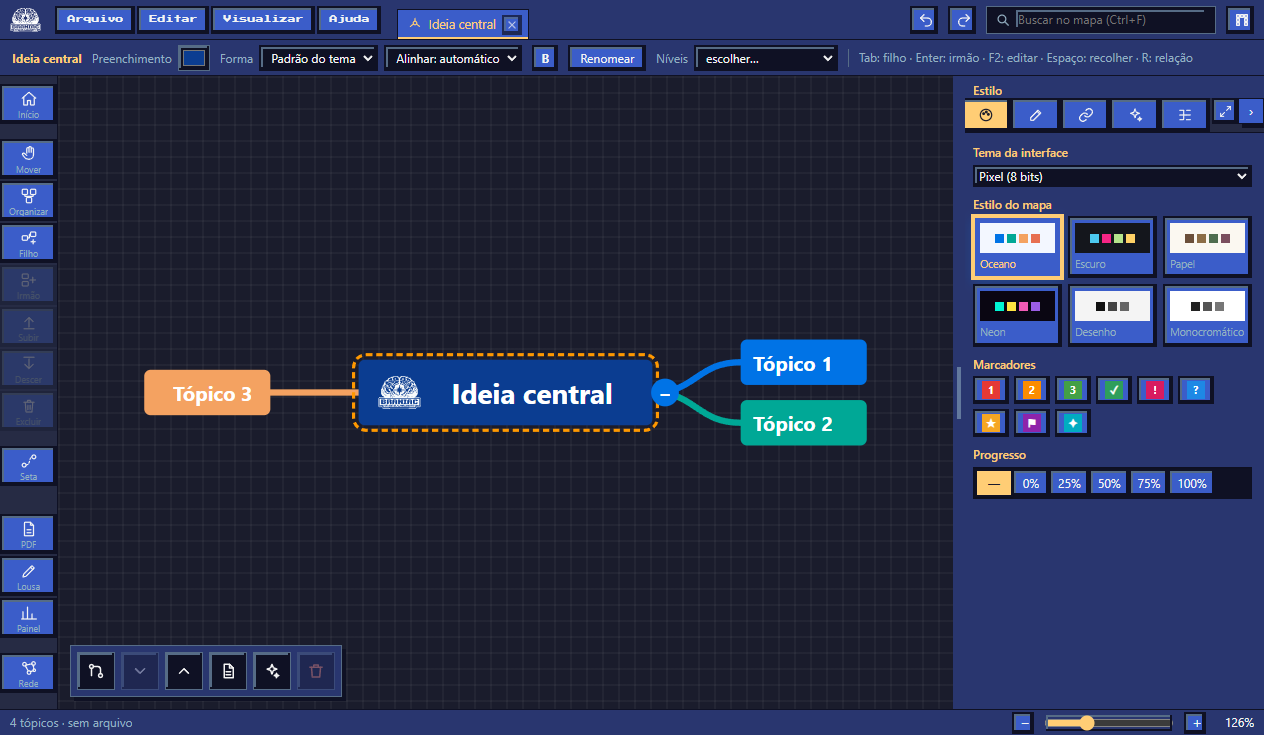
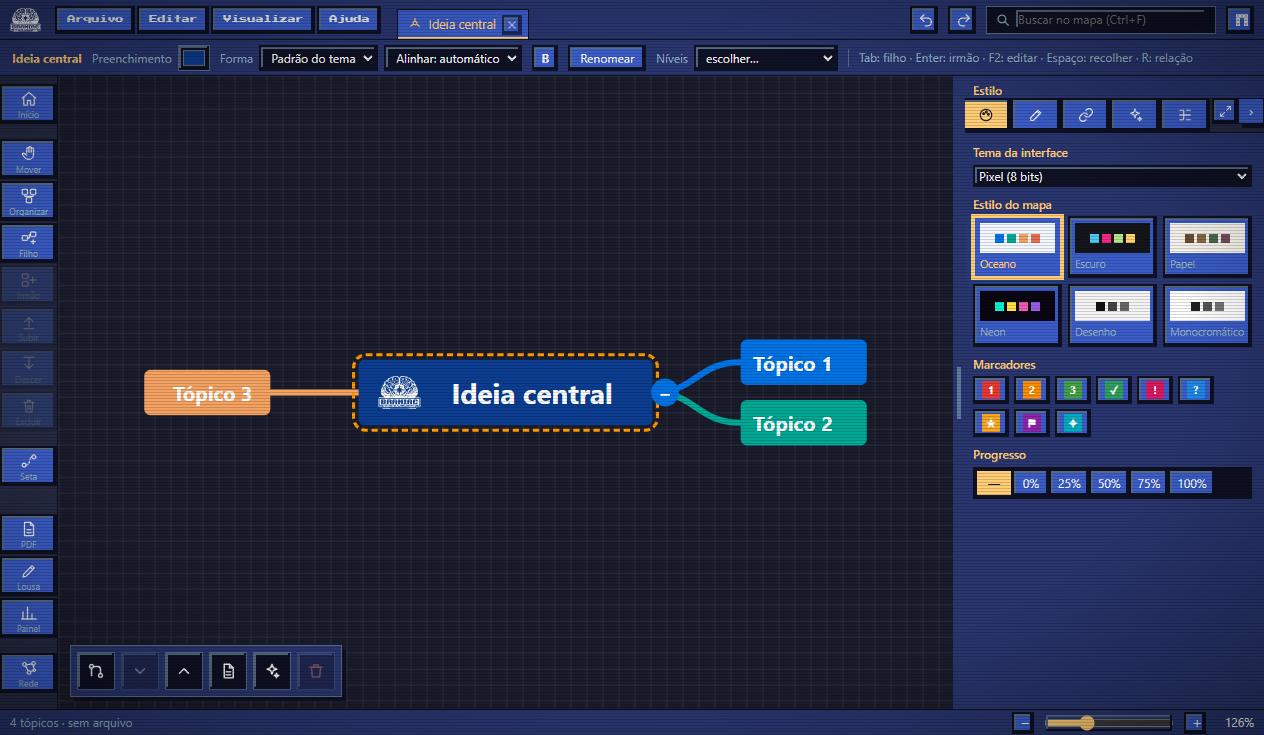
Release 0.7.2: tema Pixel (8 bits), revisão espaçada, logomarca nova
- Versão 0.7.2 em package.json, package-lock.json, tablet/package.json e no
  Android (versionName 0.7.2, versionCode 24). Corrigido o bloco do
  patch-android.js que ainda gravava 0.8.0 (código 80) depois da versão certa.
- Tema "Pixel (8 bits)": linhas de varredura, barras de rolagem em degrau e
  fonte Press Start 2P (OFL) incluída no app.
- Revisão espaçada (1-7-15-30-60-120 dias), janela de revisões de hoje e
  aviso diário no desktop.
- CHANGELOG: entradas de recursos que não estão neste repositório marcadas
  com ⚠.
- README reescrito: as 50 capturas citadas não existiam; agora o texto
  descreve só o que foi verificado no código.
- Artefatos: BRANIAC Setup 0.7.2.exe (sem assinatura de código) e
  BRANIAC-0.7.2.apk (assinado com tablet/keystore, fora do Git).

diff --git a/tablet/scripts/patch-android.js b/tablet/scripts/patch-android.js
@@ -4,7 +4,7 @@
  *  1. o compartilhamento enxerga a pasta interna do app (files/braniac), onde o BRANIAC grava mapas e exportações;
  *  2. assinatura de release com a chave de tablet/keystore (fora do git). A senha é lida do arquivo na hora do build
  *     e nunca é copiada para o projeto; sem o arquivo, o release sai sem assinatura (e o build avisa);
- *  3. versão 0.8.0 (código 80), igual ao package.json.
+ *  3. versão 0.7.2 (código 24), igual ao package.json.
  */
 const fs = require('fs');
 const path = require('path');
@@ -60,9 +60,9 @@ if (fs.existsSync(iconSrc) && fs.existsSync(stylesFile)) {
   }
 }
 
-// 3) versão do APK: nome 0.1.22 (código 23); sempre reaplicada, pois o `cap sync` regenera o build.gradle
+// 3) versão do APK: nome 0.7.2 (código 24); sempre reaplicada, pois o `cap sync` regenera o build.gradle
 const gradleVersion = fs.readFileSync(gradle, 'utf8');
-fs.writeFileSync(gradle, gradleVersion.replace(/versionCode \d+/, 'versionCode 23').replace(/versionName "[^"]*"/, 'versionName "0.1.22"'));
+fs.writeFileSync(gradle, gradleVersion.replace(/versionCode \d+/, 'versionCode 24').replace(/versionName "[^"]*"/, 'versionName "0.7.2"'));
 
 // 2) e 3) assinatura e versão
 let g = fs.readFileSync(gradle, 'utf8');
@@ -85,7 +85,7 @@ if (!g.includes('// BRANIAC: assinatura')) {
   ].join('\n');
   g = g.replace('    buildTypes {', signing + '    buildTypes {');
   g = g.replace('    buildTypes {\n        release {', "    buildTypes {\n        release {\n            if (file('../../keystore/senha.txt').exists()) signingConfig signingConfigs.release");
-  g = g.replace(/versionCode \d+/, 'versionCode 80').replace(/versionName "[^"]*"/, 'versionName "0.8.0"');
+  g = g.replace(/versionCode \d+/, 'versionCode 24').replace(/versionName "[^"]*"/, 'versionName "0.7.2"');
   fs.writeFileSync(gradle, g);
 }
-console.log('Android: compartilhamento liberado, assinatura de release e versão 0.1.22 (código 23).');
+console.log('Android: compartilhamento liberado, assinatura de release e versão 0.7.2 (código 24).');

diff --git a/renderer/pixel-theme.css b/renderer/pixel-theme.css
@@ -70,3 +70,17 @@ body.ui-pixel .btn.primary svg, body.ui-pixel .ptab.on svg, body.ui-pixel .tool.
 
 body.ui-pixel .panel-h, body.ui-pixel .ctx-title, body.ui-pixel .field-label { color: var(--text-strong); }
 body.ui-pixel .ctx-item:hover, body.ui-pixel .ctx-item:focus-visible { background-color: var(--accent); color: var(--bg-app); }
+
+/* Retrô: linhas de varredura de monitor de tubo, vinheta leve, barras de rolagem em degrau e logo sem suavização.
+   Só olhos: o overlay não recebe cliques (pointer-events: none). */
+body.ui-pixel::after {
+  content: "";
+  position: fixed; inset: 0; pointer-events: none; z-index: 9000;
+  background:
+    repeating-linear-gradient(0deg, rgba(0, 0, 0, .16) 0 1px, transparent 1px 3px),
+    radial-gradient(ellipse at center, transparent 62%, rgba(0, 0, 0, .35) 100%);
+}
+body.ui-pixel ::-webkit-scrollbar { width: 12px; height: 12px; }
+body.ui-pixel ::-webkit-scrollbar-track { background: var(--bg-field); border: 2px solid var(--line); }
+body.ui-pixel ::-webkit-scrollbar-thumb { background: var(--bg-hover); border: 2px solid var(--line); box-shadow: inset -2px -2px 0 var(--line), inset 2px 2px 0 var(--line-soft); }
+body.ui-pixel .brand img { image-rendering: pixelated; }

diff --git a/tablet/www/pixel-theme.css b/tablet/www/pixel-theme.css
@@ -70,3 +70,17 @@ body.ui-pixel .btn.primary svg, body.ui-pixel .ptab.on svg, body.ui-pixel .tool.
 
 body.ui-pixel .panel-h, body.ui-pixel .ctx-title, body.ui-pixel .field-label { color: var(--text-strong); }
 body.ui-pixel .ctx-item:hover, body.ui-pixel .ctx-item:focus-visible { background-color: var(--accent); color: var(--bg-app); }
+
+/* Retrô: linhas de varredura de monitor de tubo, vinheta leve, barras de rolagem em degrau e logo sem suavização.
+   Só olhos: o overlay não recebe cliques (pointer-events: none). */
+body.ui-pixel::after {
+  content: "";
+  position: fixed; inset: 0; pointer-events: none; z-index: 9000;
+  background:
+    repeating-linear-gradient(0deg, rgba(0, 0, 0, .16) 0 1px, transparent 1px 3px),
+    radial-gradient(ellipse at center, transparent 62%, rgba(0, 0, 0, .35) 100%);
+}
+body.ui-pixel ::-webkit-scrollbar { width: 12px; height: 12px; }
+body.ui-pixel ::-webkit-scrollbar-track { background: var(--bg-field); border: 2px solid var(--line); }
+body.ui-pixel ::-webkit-scrollbar-thumb { background: var(--bg-hover); border: 2px solid var(--line); box-shadow: inset -2px -2px 0 var(--line), inset 2px 2px 0 var(--line-soft); }
+body.ui-pixel .brand img { image-rendering: pixelated; }

diff --git a/tablet/www/tablet-bundle.js b/tablet/www/tablet-bundle.js
@@ -4132,7 +4132,7 @@ Pergunta do aluno: ${q || "Explique o t\xF3pico de forma resumida, do jeito que 
     "package.json"(exports, module) {
       module.exports = {
         name: "braniac-tablet",
-        version: "0.1.22",
+        version: "0.7.2",
         private: true,
         description: "Casca Android (Capacitor) do BRANIAC: empacota a mesma interface do desktop para o tablet.",
         scripts: {

diff --git a/tablet/www/index.html b/tablet/www/index.html
@@ -24,7 +24,7 @@
       <div class="splash-bar"></div>
     </div>
     <div id="splashStatus" class="splash-status">Iniciando o BRANIAC…</div>
-    <div class="splash-foot" id="splashVersion">BRANIAC · v0.1.22</div>
+    <div class="splash-foot" id="splashVersion">BRANIAC · v0.7.2</div>
   </div>
 </div>
 <script src="tablet-bundle.js"></script>

diff --git a/README.md b/README.md
@@ -1,157 +1,105 @@
-# MindCraft
+# BRANIAC
 
-**Mapas mentais e rotina de estudos para concursos e provas.** Você monta o mapa do edital, estuda cada tópico com PDF, vídeo e questões ao lado, e o app avisa quando é hora de revisar.
+**Mapas mentais para organizar o estudo.** Monte o mapa do conteúdo, abra o PDF ao lado, marque o que já foi revisado e deixe o app avisar quando chegar a hora de revisar.
 
-- Desktop: **Windows** (instalador) · **macOS** e **Linux** (gerados a partir do código)
-- Tablet: **Android** (APK)
-- Compatível com arquivos **Mindomo `.mom`**: abre, salva e preserva o que não entende
+- Desktop: **Windows** (instalador). macOS e Linux: gere a partir do código (ainda não validado nessas plataformas).
+- Tablet: **Android** (APK).
+- Compatível com arquivos **Mindomo `.mom`**: abre, salva e preserva o que não entende.
+
+Versão atual: **0.7.2**. Histórico completo em [CHANGELOG.md](CHANGELOG.md).
 
 ## Telas
 
-| Tela inicial | Leitor de PDF ao lado do mapa |
+| Tela inicial da abertura | Mapa com a logomarca nova |
 |---|---|
-| ![Tela inicial](docs/evidencias/inicio/tela-inicial.png) | ![Leitor de PDF ao lado do mapa](docs/evidencias/midias/leitor-de-pdf.png) |
-| **Rede de conhecimento** | **Tablet** |
-| ![Rede de conhecimento](docs/evidencias/estilo/rede-de-conhecimento.png) | ![Tablet na vertical](docs/evidencias/tablet/tela-inicial-retrato.png) |
+| ![Abertura do BRANIAC](docs/evidencias/logo-splash/1-splash.png) | ![Mapa com a logomarca](docs/evidencias/logo-splash/4-mapa-logo-nova.png) |
+| **Tema Pixel (8 bits)** | **Revisões de hoje** |
+| ![Tema pixel](docs/evidencias/tema-pixel/2-pixel.png) | ![Revisões de hoje](docs/evidencias/revisoes/1-revisoes-hoje.png) |
 
 ## Funcionalidades
 
-<!-- funcionalidades:inicio -->
+### Mapa mental
+- Criar, renomear, excluir, mover e recolher tópicos (Tab e Enter para filho e irmão, F2 para renomear, Espaço para recolher).
+- Desfazer e refazer (Ctrl+Z e Ctrl+Y).
+- Notas e links `[[entre tópicos]]`.
+- Busca no mapa (Ctrl+F).
+- Marcadores de prioridade e progresso por tópico.
+- Temas do mapa (Oceano, Escuro, Papel, Neon, Desenho, Monocromático).
+- Fluxograma e lousa de resolução.
+- Auto-organizar o mapa.
 
-Cada funcionalidade abaixo foi executada no app (41 testadas e ok, 2 não testadas neste ambiente). Atualizado em 2026-10-27 por `npm run evidence`; as capturas ficam em [docs/evidencias](docs/evidencias/README.md).
-
-### Início e primeiro uso
-
-| Funcionalidade | Status | Evidência |
-|---|---|---|
-| Tela inicial com os atalhos para começar | ✅ ok | [tela-inicial.png](docs/evidencias/inicio/tela-inicial.png) |
-| Sem mapa aberto, o painel lateral some e a tela fica limpa | ✅ ok | [sem-mapa-sem-painel.png](docs/evidencias/inicio/sem-mapa-sem-painel.png) |
-| Manual de uso (Ajuda → Manual de uso), com índice e busca | ✅ ok | [manual-de-uso.png](docs/evidencias/inicio/manual-de-uso.png) |
-| Lista de atalhos do teclado (F1) | ✅ ok | [atalhos-do-teclado.png](docs/evidencias/inicio/atalhos-do-teclado.png) |
-
-### Editar o mapa
-
-| Funcionalidade | Status | Evidência |
-|---|---|---|
-| Novo mapa em branco | ✅ ok | [novo-mapa-em-branco.png](docs/evidencias/mapas/novo-mapa-em-branco.png) |
-| Criar tópico filho (Tab) e irmão (Enter) | ✅ ok | [criar-topico-filho-e-irmao.png](docs/evidencias/mapas/criar-topico-filho-e-irmao.png) |
-| Renomear o tópico (botão Renomear ou F2) | ✅ ok | [renomear-topico.png](docs/evidencias/mapas/renomear-topico.png) |
-| Excluir tópico (botão na lateral ou Del) | ✅ ok | [excluir-topico.png](docs/evidencias/mapas/excluir-topico.png) |
-| Desfazer e refazer (Ctrl+Z e Ctrl+Y) | ✅ ok | [desfazer-e-refazer.png](docs/evidencias/mapas/desfazer-e-refazer.png) |
-| Recolher e expandir um ramo (tecla Espaço) | ✅ ok | [recolher-ramo.png](docs/evidencias/mapas/recolher-ramo.png) |
-| Forma do tópico (barra do tópico) | ✅ ok | [forma-do-topico.png](docs/evidencias/mapas/forma-do-topico.png) |
-| Notas e links [[entre tópicos]] | ✅ ok | [notas-e-links-entre-topicos-notas.png](docs/evidencias/mapas/notas-e-links-entre-topicos-notas.png) · [notas-e-links-entre-topicos-conexoes.png](docs/evidencias/mapas/notas-e-links-entre-topicos-conexoes.png) |
-
-### Aparência e painéis
-
-| Funcionalidade | Status | Evidência |
-|---|---|---|
-| Buscar no mapa (Ctrl+F) | ✅ ok | [busca-no-mapa.png](docs/evidencias/estilo/busca-no-mapa.png) |
-| Tema visual do mapa (Oceano, Neon, Papel…) | ✅ ok | [tema-do-mapa.png](docs/evidencias/estilo/tema-do-mapa.png) |
-| Marcadores de prioridade no tópico | ✅ ok | [marcadores.png](docs/evidencias/estilo/marcadores.png) |
-| Estrutura do mapa em árvore (aba Estrutura) | ✅ ok | [estrutura-em-arvore.png](docs/evidencias/estilo/estrutura-em-arvore.png) |
-| Recolher e reabrir o painel lateral | ✅ ok | [painel-lateral-recolher-recolhido.png](docs/evidencias/estilo/painel-lateral-recolher-recolhido.png) · [painel-lateral-recolher-aberto.png](docs/evidencias/estilo/painel-lateral-recolher-aberto.png) |
-| Maximizar e restaurar o painel | ✅ ok | [painel-maximizar.png](docs/evidencias/estilo/painel-maximizar.png) |
-| Rede de conhecimento (o mapa como rede de conexões) | ✅ ok | [rede-de-conhecimento.png](docs/evidencias/estilo/rede-de-conhecimento.png) |
+### Aparência
+- **Tema da interface:** Escuro, Claro, Desenho à mão e **Pixel (8 bits)**, com paleta de console, bordas em degrau e fonte pixel nos títulos.
+- Painel lateral recolhível (Ctrl+\\) e divisores arrastáveis.
 
 ### Estudo e revisão
+- **Marcar tópico como revisado** (Editar › Marcar tópico como revisado). A próxima revisão segue os intervalos de **1, 7, 15, 30, 60 e 120 dias**; depois disso, sempre 120.
+- **Revisões de hoje** (Visualizar › Revisões de hoje…): lista as revisões do dia e as atrasadas, com o botão **Revisado** e a previsão dos próximos 7 dias.
+- **Aviso diário:** uma vez por dia, quando há revisões pendentes, o desktop mostra um aviso do sistema. A barra de status mostra a contagem em qualquer aparelho. O aviso só aparece com o app aberto.
+- PDF ao lado do mapa.
 
-| Funcionalidade | Status | Evidência |
-|---|---|---|
-| Estudo do tópico: revisão, tempo e questões | ✅ ok | [painel-do-topico.png](docs/evidencias/estudo/painel-do-topico.png) |
-| Marcar "Estudei hoje" e "Errei" (agenda a próxima revisão) | ✅ ok | [estudei-hoje-e-errei-estudei.png](docs/evidencias/estudo/estudei-hoje-e-errei-estudei.png) · [estudei-hoje-e-errei-errei.png](docs/evidencias/estudo/estudei-hoje-e-errei-errei.png) |
-| Registrar minutos de estudo | ✅ ok | [minutos-de-estudo.png](docs/evidencias/estudo/minutos-de-estudo.png) |
-| Caderno de erros, com o motivo de cada erro | ✅ ok | [caderno-de-erros.png](docs/evidencias/estudo/caderno-de-erros.png) |
-| Painel de estudos (progresso, sequência e metas) | ✅ ok | [painel-de-estudos.png](docs/evidencias/estudo/painel-de-estudos.png) |
-| Revisão do dia (tópicos vencidos) | ✅ ok | [revisao-do-dia.png](docs/evidencias/estudo/revisao-do-dia.png) |
-| Registrar simulado por disciplina | ✅ ok | [simulado.png](docs/evidencias/estudo/simulado.png) |
-
-### Criar e importar mapas
-
-| Funcionalidade | Status | Evidência |
-|---|---|---|
-| Novo mapa de concurso: escolher um modelo pronto | ✅ ok | [modelos-de-concurso-escolha.png](docs/evidencias/importar/modelos-de-concurso-escolha.png) · [modelos-de-concurso-mapa.png](docs/evidencias/importar/modelos-de-concurso-mapa.png) |
-| Importar o CSV colado (resposta da IA), com prévia | ✅ ok | [csv-colado-da-ia-colagem.txt](docs/evidencias/importar/csv-colado-da-ia-colagem.txt) · [csv-colado-da-ia-previa.png](docs/evidencias/importar/csv-colado-da-ia-previa.png) · [csv-colado-da-ia-mapa.png](docs/evidencias/importar/csv-colado-da-ia-mapa.png) |
-| Importar edital colando o texto do conteúdo programático | ✅ ok | [importar-edital-por-texto.png](docs/evidencias/importar/importar-edital-por-texto.png) |
-
-### Dados, exportação e biblioteca
-
-| Funcionalidade | Status | Evidência |
-|---|---|---|
-| Biblioteca de mapas (todos os mapas guardados) | ✅ ok | [biblioteca-de-mapas.png](docs/evidencias/dados/biblioteca-de-mapas.png) |
-| Exportar em Markdown (.md) | ✅ ok | [exportar-markdown.md](docs/evidencias/dados/exportar-markdown.md) |
-| Exportar em OPML (para outros programas de mapas) | ✅ ok | [exportar-opml.opml](docs/evidencias/dados/exportar-opml.opml) |
-| Exportar em PDF | ✅ ok | [exportar-pdf.pdf](docs/evidencias/dados/exportar-pdf.pdf) |
-| Exportar em Word (.docx) | ✅ ok | [exportar-word.docx](docs/evidencias/dados/exportar-word.docx) |
-| Abrir e salvar no formato do Mindomo (.mom) sem perder dados | ✅ ok | [mindomo-mom.txt](docs/evidencias/dados/mindomo-mom.txt) |
-| Agenda de revisões e provas (.ics, para o calendário) | ✅ ok | [agenda-ics.ics](docs/evidencias/dados/agenda-ics.ics) · [agenda-ics-resumo.txt](docs/evidencias/dados/agenda-ics-resumo.txt) |
-| Importar um mapa a partir de Markdown | ✅ ok | [importar-markdown.txt](docs/evidencias/dados/importar-markdown.txt) |
-| Cópia de segurança em pacote (.mcpack) com a biblioteca | ✅ ok | [backup-pacote.txt](docs/evidencias/dados/backup-pacote.txt) |
-| Sincronização com Google Drive ou pasta | ⚪ não testado | — |
-
-### PDF, vídeo e navegador
-
-| Funcionalidade | Status | Evidência |
-|---|---|---|
-| Leitor de PDF ao lado do mapa (criar tópico a partir de um trecho) | ✅ ok | [leitor-de-pdf.png](docs/evidencias/midias/leitor-de-pdf.png) |
-| Player de vídeo para videoaulas (arquivo local ou YouTube) | ⚪ não testado | [player-de-video.png](docs/evidencias/midias/player-de-video.png) |
-| Navegador web ao lado do mapa (questões e leis) | ✅ ok | [navegador-web.png](docs/evidencias/midias/navegador-web.png) |
-
-### Tablet
-
-| Funcionalidade | Status | Evidência |
-|---|---|---|
-| Tela inicial em formato de tablet (retrato) | ✅ ok | [tela-inicial-retrato.png](docs/evidencias/tablet/tela-inicial-retrato.png) |
-
-<!-- funcionalidades:fim -->
+### Dados e exportação
+- Abrir e salvar arquivos `.mom`.
+- Exportar o material de estudo em **PDF** e **Markdown**.
+- **Rede de conhecimento:** visualiza o mapa como rede de ligações e exporta para o **Obsidian** (abre o cofre direto no Obsidian).
+- Cópia de segurança e restauração de versões anteriores.
+- Importar CSV (por arquivo ou colado).
 
 ## Instalar
 
-**Windows:** baixe `MindCraft Setup x.y.z.exe` na página de [releases](https://github.com/iratuan/mindCraft/releases) e execute. O instalador não é assinado, então o Windows pode mostrar um aviso de editor desconhecido: clique em "Mais informações" e depois "Executar assim mesmo".
+**Windows:** baixe `BRANIAC Setup 0.7.2.exe` e execute. O instalador não é assinado, então o Windows pode mostrar um aviso de editor desconhecido: clique em "Mais informações" e depois em "Executar assim mesmo".
 
-**Android:** baixe `MindCraft-x.y.z.apk`, abra o arquivo e permita a instalação de fontes desconhecidas quando o aparelho pedir.
+**Android:** baixe `BRANIAC-0.7.2.apk`, abra o arquivo e permita a instalação de fontes desconhecidas quando o aparelho pedir.
 
-**macOS e Linux:** ainda sem instalador publicado. Gere a partir do código (veja abaixo) com `npm run dist`. No macOS, a primeira abertura pede confirmação em "Ajustes → Privacidade e Segurança".
+**macOS e Linux:** sem instalador publicado. Gere a partir do código (veja abaixo).
 
 ## Usar
 
-1. Abra o app e escolha **Novo mapa de concurso** ou **Importar edital**.
-2. Estude cada tópico: peso, cronômetro e questões no painel da direita. O PDF, o vídeo ou o navegador ficam à esquerda.
-3. Toda manhã, abra o **Painel de estudos** (Ctrl+E) e faça a fila de revisões.
-4. Faça uma **cópia de segurança** de vez em quando (Tela inicial). Guarde o arquivo fora do computador.
+1. Abra o app e crie um mapa novo, ou importe um CSV de conteúdo.
+2. Estude cada tópico com o PDF ao lado. Ao terminar, marque o tópico como revisado.
+3. Abra **Revisões de hoje** para fazer a fila do dia. Quando o aviso chegar, é o sinal para começar por ela.
+4. Faça uma cópia de segurança de vez em quando e guarde o arquivo fora do computador.
 
-Atalhos completos: **F1** ou Ajuda → Atalhos. Explicações de cada função: Ajuda → Manual de uso.
+Atalhos completos: **F1**.
 
 ## Para desenvolver
 
 ```bash
 npm install
 npm start          # abre o app
-npm run check      # lint + testes unitários + paridade com o núcleo web
-npm run e2e        # testes ponta a ponta no Electron real (34 etapas)
-npm run qa         # QA por funcionalidade, com entrada real (81 casos)
-npm run dist       # instalador do sistema atual, em dist/
+npm run check      # lint + testes unitários (210)
+npm run e2e        # testes ponta a ponta no Electron real
+npm run dist       # gera o instalador do Windows em dist/
 ```
 
-Android: `cd tablet && node scripts/release.js` gera e assina o APK em `dist/` (junto com os instaladores Windows). A chave de assinatura fica em `tablet/keystore/`, fora do Git: **faça uma cópia**, sem ela não é possível atualizar o app instalado.
+**APK (Android):** requer JDK 21 e o Android SDK.
 
-Estrutura: `core/` (regras de negócio puras, sem Electron nem DOM) · `electron/` (processo principal) · `renderer/` (interface) · `platform/` (versão web, para o tablet) · `tablet/` (Capacitor) · `test/`.
+```bash
+cd tablet
+npm run sync                       # copia a interface e aplica a versão e a assinatura
+cd android
+./gradlew assembleRelease          # gera app/build/outputs/apk/release/app-release.apk
+```
+
+A chave de assinatura fica em `tablet/keystore/` (`mindcraft.jks` e `senha.txt`), fora do Git. **Faça uma cópia**: sem ela não é possível atualizar o app já instalado.
+
+Estrutura: `core/` (regras de negócio puras, sem Electron nem DOM) · `electron/` (processo principal) · `renderer/` (interface) · `tablet/` (Capacitor) · `test/`.
 
 Documentação para quem vai evoluir o projeto:
 - [`CLAUDE.md`](CLAUDE.md): regras, comandos e armadilhas. Comece por aqui.
-- [`docs/ARCHITECTURE.md`](docs/ARCHITECTURE.md) e [`docs/DECISIONS.md`](docs/DECISIONS.md): arquitetura e decisões
-- [`docs/TESTING.md`](docs/TESTING.md) e [`docs/CONTRIBUTING.md`](docs/CONTRIBUTING.md): testes e contribuição
-- [`CHANGELOG.md`](CHANGELOG.md): histórico de versões
+- [`docs/ARCHITECTURE.md`](docs/ARCHITECTURE.md) e [`docs/DECISIONS.md`](docs/DECISIONS.md)
+- [`docs/TESTING.md`](docs/TESTING.md) e [`docs/CONTRIBUTING.md`](docs/CONTRIBUTING.md)
+- [`CHANGELOG.md`](CHANGELOG.md)
 
 ## Limitações conhecidas
 
-- **Mindomo:** ícones, anexos, tarefas e Gantt não são importados. Relações do Mindomo são preservadas no arquivo, mas ainda não aparecem no mapa. Tópicos soltos são só de leitura até serem trazidos para a árvore.
-- **Sincronização com Google Drive:** testada apenas contra um servidor de testes. Ainda não validada com uma conta real.
+- **Recursos de estudo do histórico que não estão neste repositório:** painel de estudos, caderno de erros, simulados, metas, modelos de concurso, agenda de revisões em `.ics`, sincronização com Google Drive, navegador embutido e player de videoaulas. Eles aparecem no CHANGELOG das versões 0.1.x a 0.7.1 e foram mantidos como histórico. Os itens afetados estão marcados com ⚠ lá.
+- **Aviso diário:** só dispara com o app aberto (verifica 4 segundos após abrir e depois a cada 30 minutos). O aviso do sistema foi confirmado só no processo do app, não visto na tela do Windows.
+- **Tablet:** o APK foi gerado e assinado, mas não foi instalado nem testado em aparelho nesta versão. No tablet não há aviso do sistema para as revisões.
 - **Instaladores sem assinatura de código:** o Windows e o macOS mostram avisos na primeira execução.
-- **PDF:** fonte DejaVu (latim, grego e cirílico). Não há suporte a CJK.
-- **Cronômetro:** os minutos só são gravados quando você para.
+- **Mindomo:** ícones, anexos, tarefas e Gantt não são importados. Relações do Mindomo são preservadas no arquivo, mas não aparecem no mapa. Tópicos soltos são só de leitura até serem trazidos para a árvore.
 - **macOS e Linux:** os builds vêm do CI (`.github/workflows/build.yml`) e ainda não foram validados nessas plataformas.
 
 ## Licenças
 
-Código sob a licença MIT (veja `package.json`). O leitor de PDF usa o PDF.js (Mozilla, Apache 2.0); a interface usa React (MIT).
+Código sob a licença MIT (veja `package.json`). A fonte do tema pixel é a Press Start 2P, sob a licença SIL Open Font License (`renderer/assets/fonts/PressStart2P-OFL.txt`). O leitor de PDF usa o PDF.js (Mozilla, Apache 2.0); a interface usa React (MIT).

diff --git a/CHANGELOG.md b/CHANGELOG.md
@@ -2,7 +2,9 @@
 
 Formato livre, mais recente primeiro. Detalhes de testes: `evidencias/RESULTADOS.md`.
 
-## 0.7.2 (não lançada)
+> **Nota de consistência (novembro/2026).** O código deste repositório (`app/`) não contém os recursos de estudo descritos nas versões 0.1.x a 0.7.1: painel de estudos, revisão do dia, caderno de erros, simulados, metas, modelos de concurso, agenda `.ics`, sincronização e manual de uso. Só restaram estilos CSS desses recursos. As entradas marcadas com ⚠ descrevem esses recursos e foram mantidas como histórico. O que existe e foi conferido no código: mapas, rede de conhecimento, PDF, abas, Obsidian (fase 1), revisão espaçada (0.7.2), logomarca e abertura. Os trechos de mídia (vídeo e navegador) das versões 0.4.3 e 0.6.x não foram conferidos um a um.
+
+## 0.7.2 — 06/11/2026
 - **Nova abertura:** o vídeo de abertura do BRANIAC (`braniac_video.mp4`) substitui o anterior.
 - **Nova logomarca:** `logo.svg` substitui a anterior no cabeçalho, na tela inicial e no tópico raiz do mapa (`core/logo.js`, com as mesmas três variantes de cor).
 - **Tema "Pixel (8 bits)":** nova opção em Tema da interface, com paleta de console, bordas em degrau e cantos retos. Títulos e menu usam a fonte pixel (Press Start 2P, licença OFL, incluída no app); os rótulos densos seguem na fonte normal, porque a fonte pixel cortaria o texto.
@@ -16,12 +18,12 @@ Formato livre, mais recente primeiro. Detalhes de testes: `evidencias/RESULTADOS
 - **Tela inicial sem painel:** sem mapa aberto, o painel lateral e o divisor somem, e a tela inicial ocupa a janela.
 - **Painel lateral:** o nome da aba ativa aparece acima das abas (Estilo, Estudo, Notas, Conexões, Estrutura).
 - **Barra lateral:** o botão Navegador ganhou a legenda, como os demais botões de primeiro nível.
-- **Menus e botões:** "Novo mapa de concurso…" tem o mesmo nome no menu Arquivo, no tablet e na tela inicial.
+- ⚠ **Menus e botões:** "Novo mapa de concurso…" tem o mesmo nome no menu Arquivo, no tablet e na tela inicial.
 
-## 0.7.0
-- **Modelos de concurso:** "Novo mapa de concurso" abre a lista de modelos (BNB, DATAPREV, TJ-CE, POSCOMP e OAB), com busca. Escolher um modelo cria o mapa com as disciplinas e os tópicos do edital. "Começar do zero" mantém o modelo genérico.
-- Modelos em `modelos/` (CSV) geram `core/templates-data.js` (`npm run build:templates`); o teste acusa se os dois ficarem fora de sincronia.
-- Correção: na tela inicial de primeiro uso, "Novo mapa de concurso" estava escondido (regressão da 0.6.3).
+## 0.7.0 — ⚠ recursos não presentes neste repositório
+- ⚠ **Modelos de concurso:** "Novo mapa de concurso" abre a lista de modelos (BNB, DATAPREV, TJ-CE, POSCOMP e OAB), com busca. Escolher um modelo cria o mapa com as disciplinas e os tópicos do edital. "Começar do zero" mantém o modelo genérico.
+- ⚠ Modelos em `modelos/` (CSV) geram `core/templates-data.js` (`npm run build:templates`); o teste acusa se os dois ficarem fora de sincronia.
+- ⚠ Correção: na tela inicial de primeiro uso, "Novo mapa de concurso" estava escondido (regressão da 0.6.3).
 - Correção: importar CSV pela tela inicial (0.6.4) e roda do mouse sem mapa.
 
 ## 0.6.4
@@ -39,7 +41,7 @@ Formato livre, mais recente primeiro. Detalhes de testes: `evidencias/RESULTADOS
 - Barra de status mostra só o nome do arquivo.
 
 ## 0.6.2
-- **Modelo de prompt para transformar o edital em PDF em planilha (CSV)**: seção "Edital em planilha (CSV) com a IA" na Ajuda, com botão **Copiar o modelo** e passo a passo de importação.
+- ⚠ **Modelo de prompt para transformar o edital em PDF em planilha (CSV)**: seção "Edital em planilha (CSV) com a IA" na Ajuda, com botão **Copiar o modelo** e passo a passo de importação.
 
 ## 0.6.1
 - **Layout mais limpo:** as abas ficam na mesma linha do logo (uma barra a menos no topo).
@@ -73,25 +75,25 @@ Formato livre, mais recente primeiro. Detalhes de testes: `evidencias/RESULTADOS
   - **Fechar PDF** (`✕ Fechar PDF`): descarrega o arquivo da memória e limpa a visualização.
   - **Fechar Vídeo** (`✕ Fechar Vídeo`): pausa a reprodução e reseta o player de videoaulas.
   - **Fechar Aba de Navegador** (`✕ Fechar Aba`): encerra a navegação web ativa e retorna à página limpa.
-- **Recursos Multimídia**: Painel dividido de Videoaulas locais e YouTube com sincronização de timestamps em nós do mapa, e Navegador Web integrado com favoritos de concursos públicos e leis.
+- ⚠ **Recursos Multimídia** (videoaulas e navegador não estão neste repositório): Painel dividido de Videoaulas locais e YouTube com sincronização de timestamps em nós do mapa, e Navegador Web integrado com favoritos de concursos públicos e leis.
 - **Qualidade e Testes**: 276 testes automatizados passando com 100% de paridade web (`npm run check`) e 8 novas evidências visuais no tablet.
 
 ## 0.4.2
-- **CSV colado ou importado**: a janela "Importar CSV de edital" ganhou a caixa **"cole aqui"** e o botão **Colar da área de transferência** (além de escolher arquivo), com a mesma prévia. O texto colado é limpo sozinho: resposta da IA com frases e bloco de código (```csv) ou **tabela** do chat. A **planilha de planejamento** também aceita texto colado.
+- **CSV colado ou importado**: a janela "Importar CSV de edital" ganhou a caixa **"cole aqui"** e o botão **Colar da área de transferência** (além de escolher arquivo), com a mesma prévia. O texto colado é limpo sozinho: resposta da IA com frases e bloco de código (```csv) ou **tabela** do chat. A **planilha de planejamento** ⚠ (não presente neste repositório) também aceita texto colado.
 - **Painéis redimensionáveis mais fáceis de achar**: alças dos divisores (painel lateral e leitor de PDF | mapa) maiores e sempre visíveis; no tablet com área de toque grande.
 - Testes: 41 etapas e2e (novo e2e-paste), 21 no Android (digitar CSV com o teclado real), +9 unitários.
 
 ## 0.4.1
 - **Cópia de segurança no tablet com destino lembrado**: depois da 1ª cópia (seletor do Android) as seguintes gravam direto no mesmo arquivo, sem janela; a Tela inicial mostra "Cópias vão para: …" com "trocar local"; falha de gravação (permissão perdida, gravação incompleta) avisa, esquece o destino e pergunta de novo.
 - **Corrigido no tablet**: "Restaurar cópia" / abrir arquivos pelo seletor do Android — arquivos .mcpack/.mom/.opml apareciam APAGADOS (impossíveis de escolher). Agora o seletor mostra tudo e a extensão é conferida depois. O pacote criado deixou de ficar com nome "x.mcpack.zip".
-- "Seu estudo" na Tela inicial pode ser recolhido numa linha (lembrado).
+- ⚠ "Seu estudo" na Tela inicial pode ser recolhido numa linha (lembrado).
 - Ferramentas de teste: executores `tools/run-e2e.js` (saída em arquivo; antes um pipe preso travava a bateria) e `tablet/scripts/run-android.js` (`npm run android`, em blocos); captura de tela com nova tentativa; testes: 40 etapas e2e, 20 no Android.
 
 ## 0.4.0
-- **Manual de uso** em **Ajuda → Manual de uso** (☰ → Manual no tablet): 25 seções com índice, busca (sem acento) e texto específico para computador/tablet; botões "? Como usar" nas telas (Estudo, Notas, Conexões, Painel de estudos, Leitor de PDF, Tela inicial).
+- ⚠ **Manual de uso** em **Ajuda → Manual de uso** (☰ → Manual no tablet): 25 seções com índice, busca (sem acento) e texto específico para computador/tablet; botões "? Como usar" nas telas (Estudo, Notas, Conexões, Painel de estudos, Leitor de PDF, Tela inicial).
 - **Painel lateral recolhível** (botão ‹ ›, Ctrl+\\, menu Exibir) e **divisores redimensionáveis** (painel e leitor de PDF | mapa) com mouse, dedo e teclado; duplo clique/toque restaura; o mapa nunca fica espremido; tamanhos lembrados.
-- **Tela inicial**: aviso de **cópia de segurança** (nunca fez / passou do intervalo; "Fazer cópia agora", "Lembrar depois", intervalo 7/14/30/nunca), atalhos **Cópia de segurança** e **Restaurar cópia** (nunca sobrescreve) e o cartão **Seu estudo** (sequência, hoje, 7 dias em barras, acerto, metas e a disciplina mais atrasada com "Revisar agora").
-- Esc com o manual aberto sobre o Painel de estudos fecha o manual (antes fechava o painel).
+- **Tela inicial**: ⚠ (o cartão "Seu estudo" não está neste repositório) aviso de **cópia de segurança** (nunca fez / passou do intervalo; "Fazer cópia agora", "Lembrar depois", intervalo 7/14/30/nunca), atalhos **Cópia de segurança** e **Restaurar cópia** (nunca sobrescreve) e o cartão **Seu estudo** (sequência, hoje, 7 dias em barras, acerto, metas e a disciplina mais atrasada com "Revisar agora").
+- ⚠ Esc com o manual aberto sobre o Painel de estudos fecha o manual (antes fechava o painel).
 - Testes: 261 unitários, 39 etapas ponta a ponta, Android 19.
 
 ## 0.3.1
@@ -103,16 +105,16 @@ Formato livre, mais recente primeiro. Detalhes de testes: `evidencias/RESULTADOS
 - Engenharia: testes de arquitetura, ESLint, graph-labels, fachada MCView, documentação e skills.
 
 ## 0.3.0 — 17/10/2026
-- **Sincronização opcional** (desligada por padrão): pasta (ex.: Google Drive para computador) ou Google Drive direto (login por código, escopo `drive.file`). Nunca apaga; conflito mantém as duas versões.
+- ⚠ **Sincronização opcional** (desligada por padrão): pasta (ex.: Google Drive para computador) ou Google Drive direto (login por código, escopo `drive.file`). Nunca apaga; conflito mantém as duas versões.
 - **Formatação original do Mindomo**: tema, estilo de cada tópico e notas (`description`) agora são desenhados; `themes.json` preservado ao salvar.
 - **Rede de conhecimento**: rótulos em 4 posições sem sobreposição, rótulos de relação, densidade, agrupar folhas, foco, legenda clicável, busca com navegação, teclado, zoom por botões, gaveta responsiva, layout por componentes.
-- **Banca** como lista de seleção (bancas comuns do Brasil + "Outra…").
+- ⚠ **Banca** como lista de seleção (bancas comuns do Brasil + "Outra…").
 - **Tablet**: app dentro da área segura (barras de status/navegação e recorte).
 - **Engenharia**: `escapeHtml` único, extração de `graph-labels`, fachada `window.MCView`, ESLint, testes de arquitetura, documentação (`CLAUDE.md`, `docs/`) e skills (`.claude/skills`).
 
 ## 0.2.0 — 16/10/2026
 - **Versão para tablet Android** (APK): a mesma interface emulando o Electron na web; toque, teclado virtual, Voltar, compartilhar, notificações agendadas, edição de tópicos e da rede.
-- Aviso diário de revisões; relatório `.docx` completo.
+- ⚠ Aviso diário de revisões; relatório `.docx` completo; notificações agendadas no tablet.
 
 ## 0.1.x — 16/10/2026 e antes
-- Editor de mapas mentais + gestão de estudos (revisão espaçada, questões por banca/ano, caderno de erros, metas, simulados), biblioteca SQLite, pacote `.mcpack`, leitor de PDF, rede de conhecimento (Obsidian), importação de CSV/edital, interface React por fatias.
+- ⚠ Editor de mapas mentais + gestão de estudos (revisão espaçada, questões por banca/ano, caderno de erros, metas, simulados), biblioteca SQLite, pacote `.mcpack`, leitor de PDF, rede de conhecimento (Obsidian), importação de CSV/edital, interface React por fatias.
